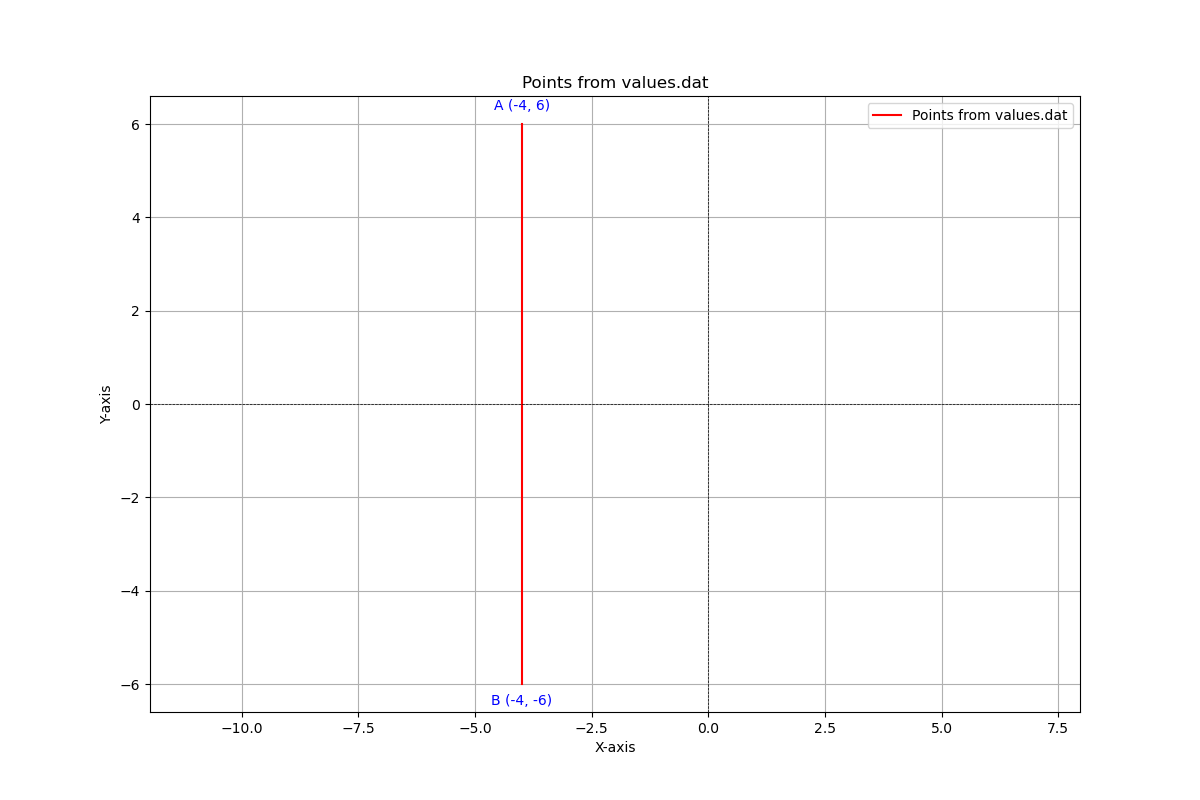
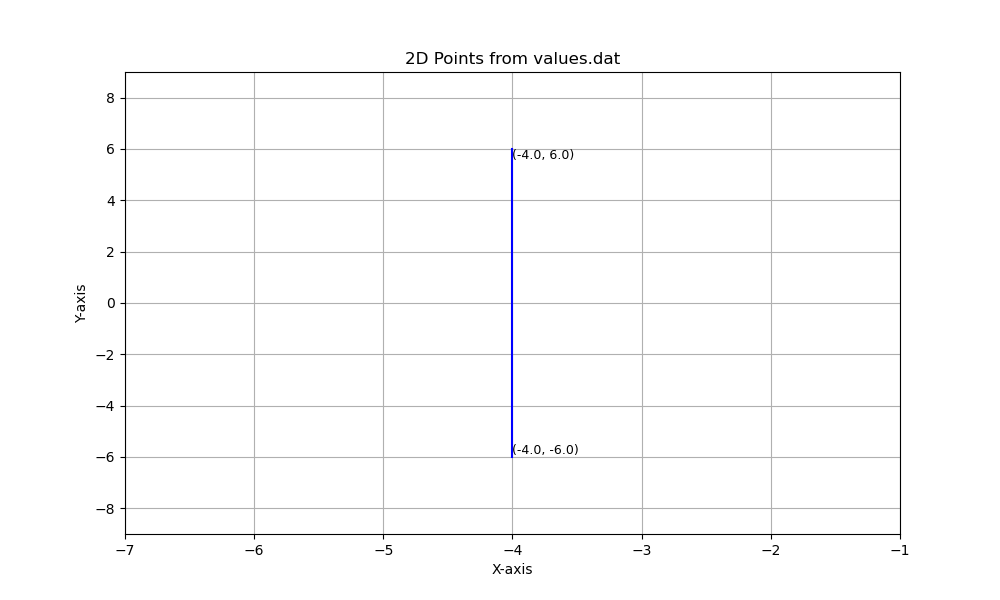
commit

diff --git a/question1/codes/y.py b/question1/codes/y.py
@@ -1,0 +1,31 @@
+import matplotlib.pyplot as plt
+
+# Read points from the file
+points = []
+with open('values.dat', 'r') as file:
+    for _ in range(37):  # Read exactly 35 points
+        line = file.readline().strip()
+        if line:  # Check if the line is not empty
+            x, y = map(float, line.split(','))
+            points.append((x, y))
+
+# Unzip the points into x and y coordinates
+x_coords, y_coords = zip(*points)
+
+# Plotting the points as a continuous line without markers
+plt.figure(figsize=(10, 6))
+plt.plot(x_coords, y_coords, color='blue', linestyle='-')  # Removed marker='o'
+plt.title('2D Points from values.dat')
+plt.xlabel('X-axis')
+plt.ylabel('Y-axis')
+plt.grid(True)
+
+# Label the endpoints
+plt.text(x_coords[0], y_coords[0], f'({x_coords[0]}, {y_coords[0]})', fontsize=9, verticalalignment='top')
+plt.text(x_coords[-1], y_coords[-1], f'({x_coords[-1]}, {y_coords[-1]})', fontsize=9, verticalalignment='bottom')
+
+# Adjust axes limits to zoom out
+plt.xlim(min(x_coords) - 3, max(x_coords) + 3)  # Increase the range by 2 units on both sides
+plt.ylim(min(y_coords) - 3, max(y_coords) + 3)  # Increase the range by 2 units on both sides
+plt.savefig('/home/suraj5323/matgeoee11033/question1/figs/Figure_1.png')
+
